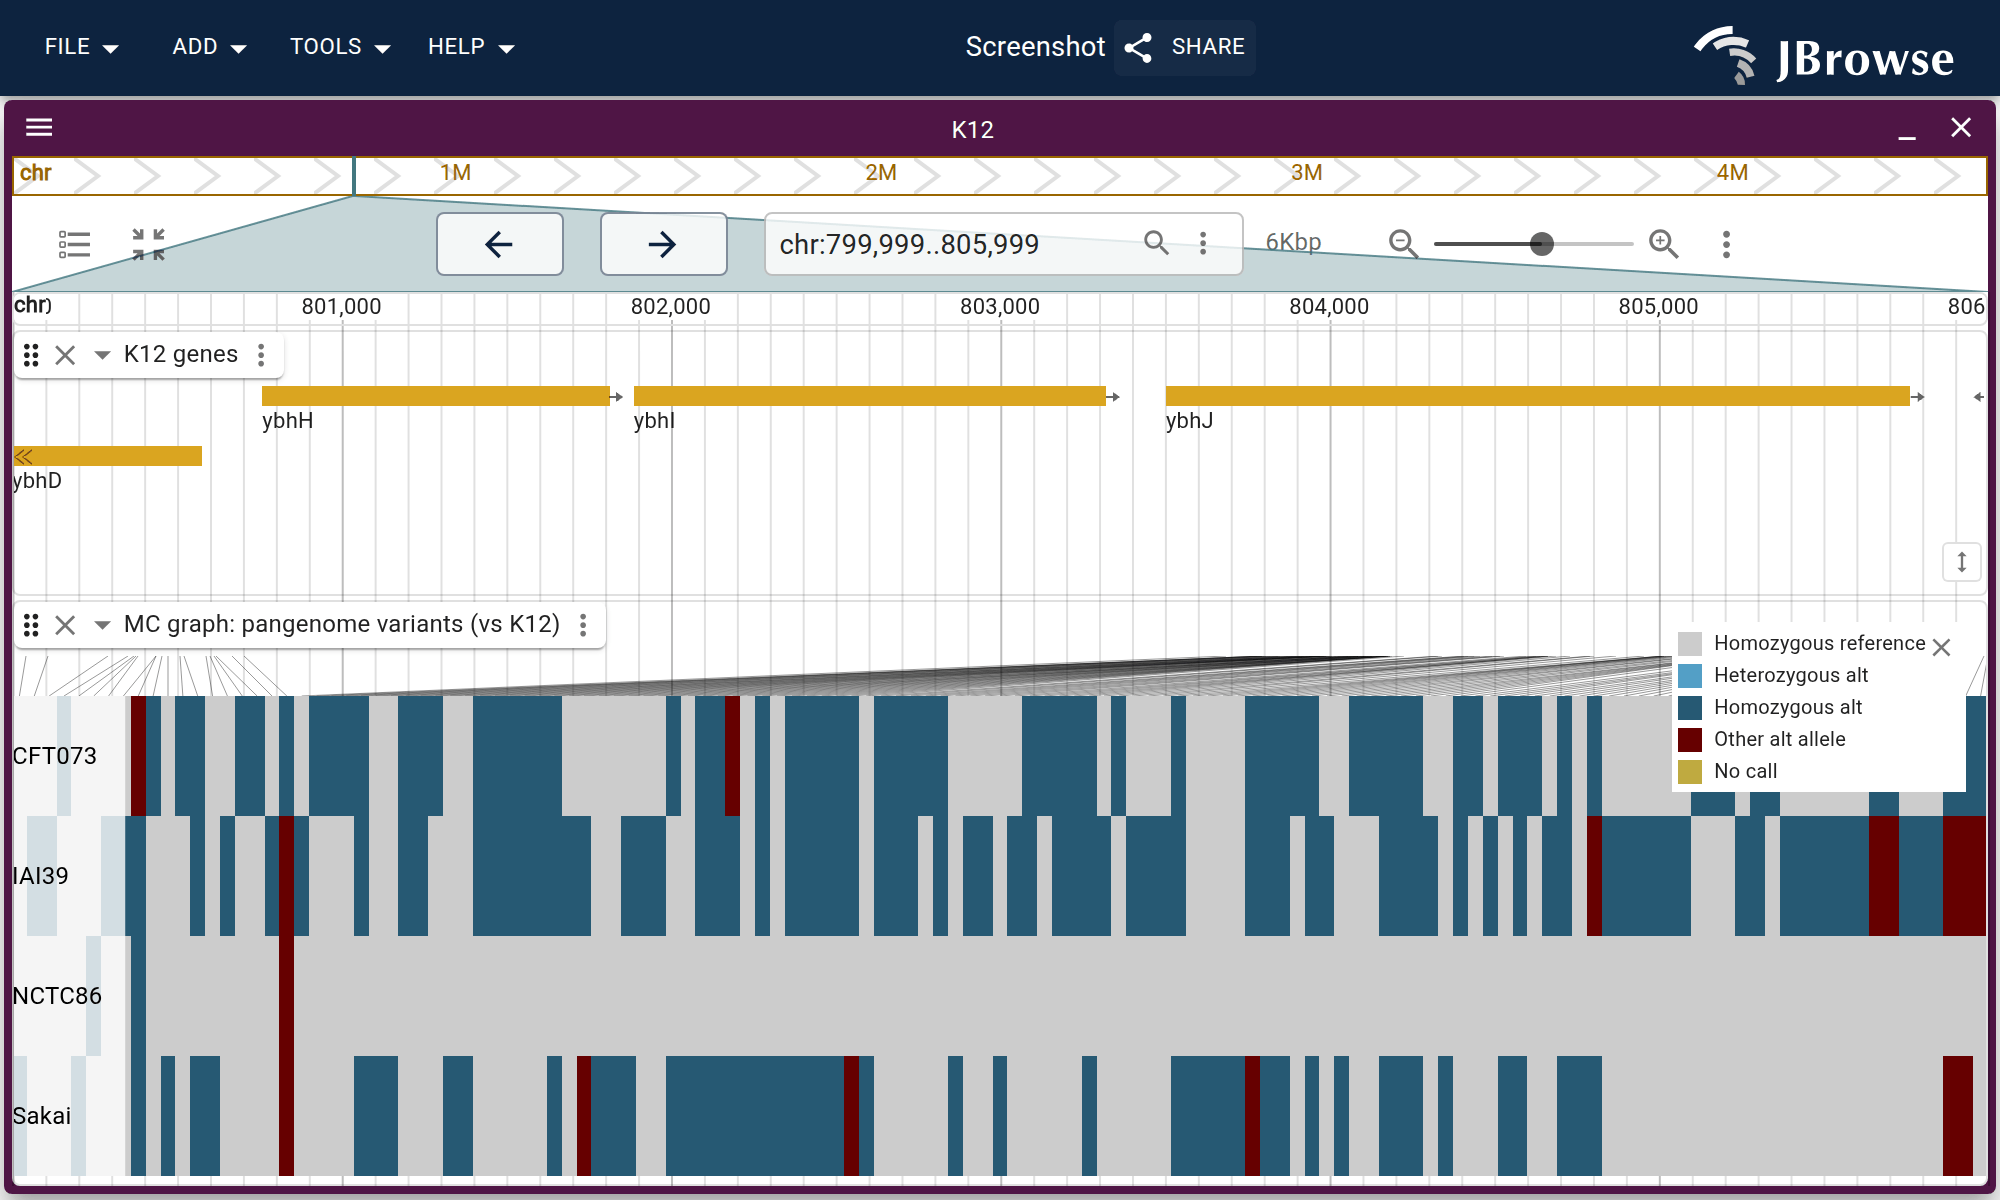
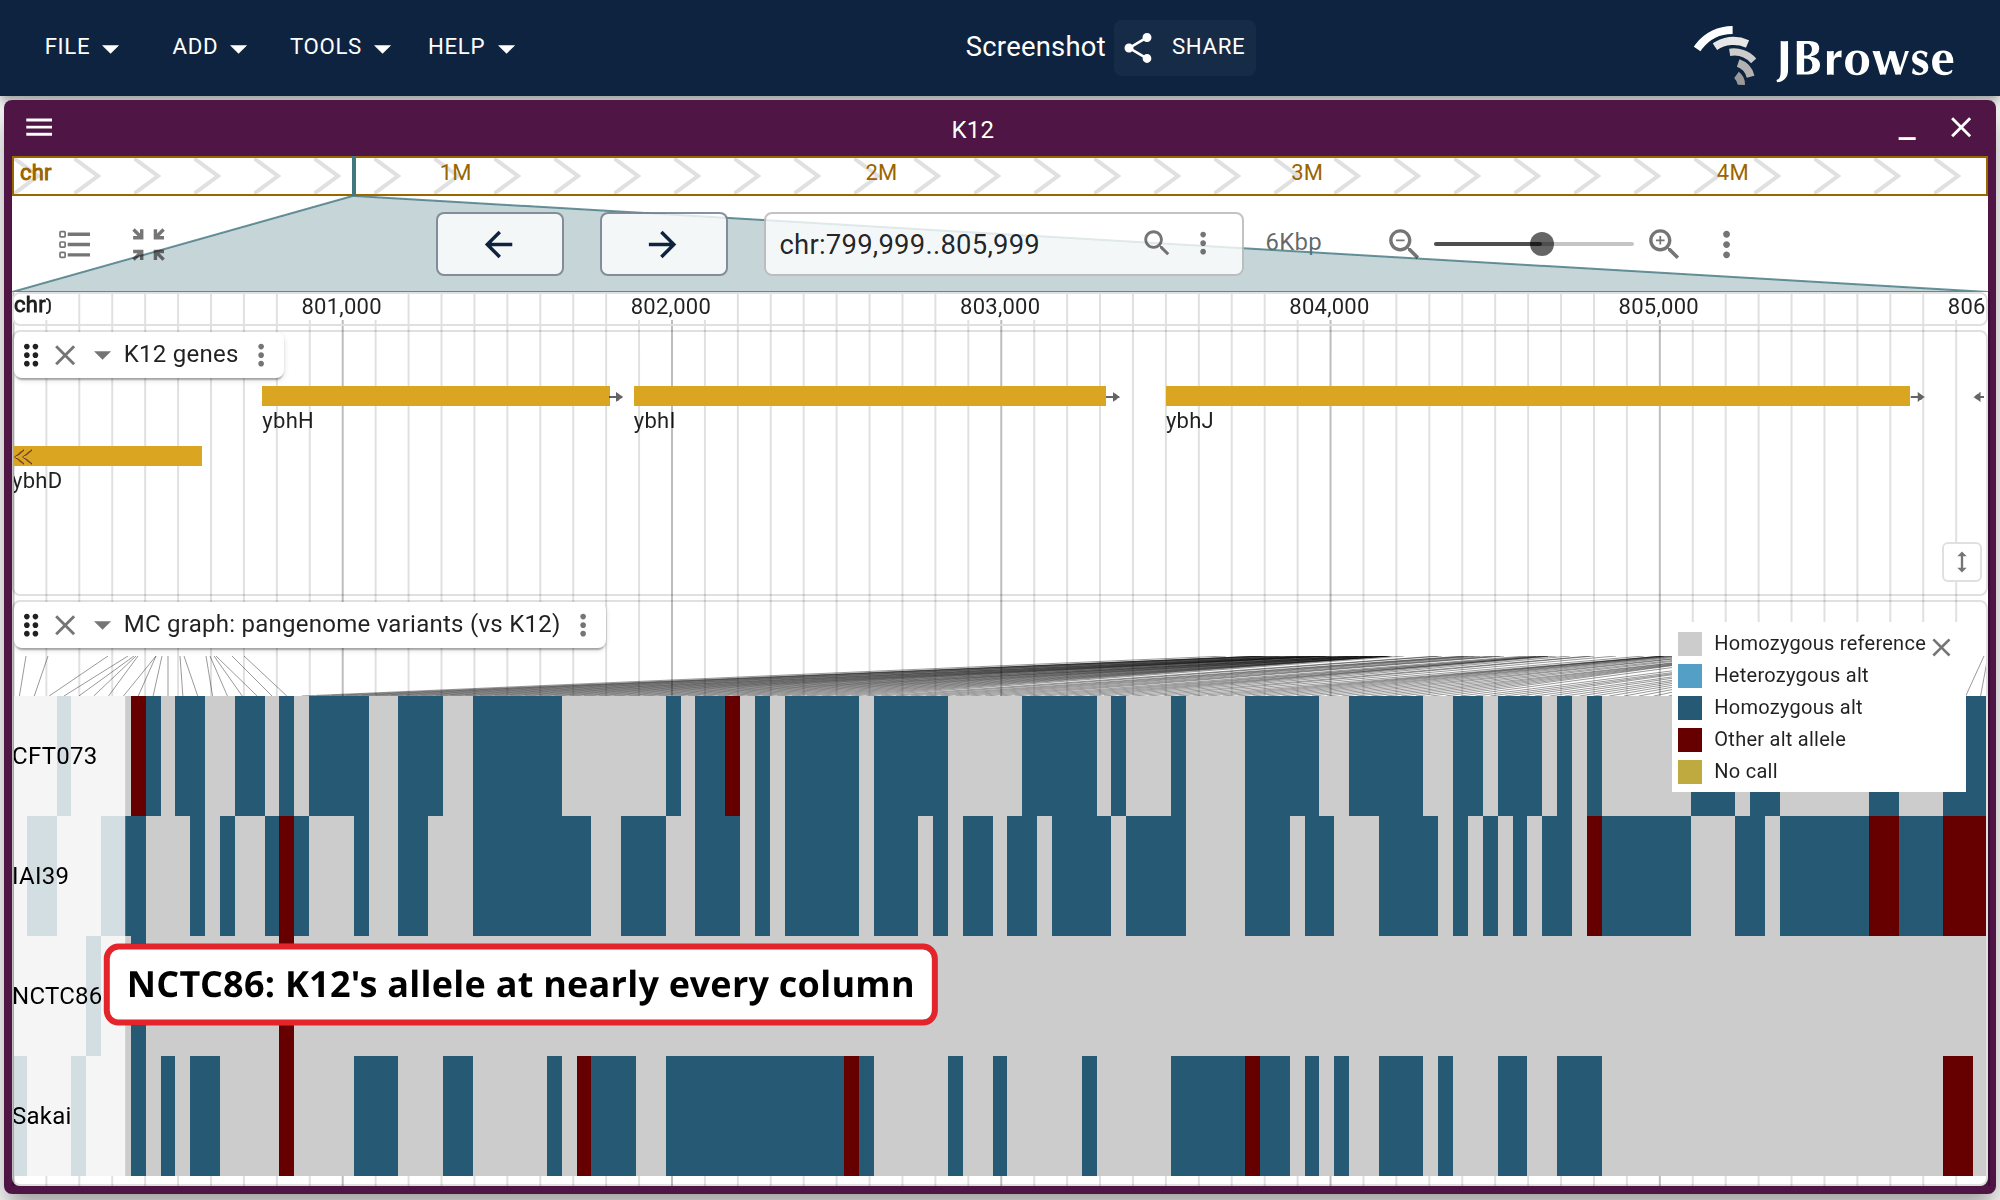
docs(pangenome): point the Cactus variants figure at the row it is about
Proposed for deletion as uninteresting. It stays: it is the only picture in the
tutorial's "Pangenome variants projection" section, that section is about a
display choice, and its window is load-bearing -- chr:800,000-806,000 is
deliberately the same 6 kb the MAF figure below draws base by base, so a reader
gets one stretch in two projections.

What was wrong is that the finding was invisible. Counted per sample over that
window on the hosted VCF: CFT073 carries an alt at 70 of the 133 records, IAI39
at 86, Sakai at 55, and NCTC86 at 3. That is the figure, and nothing on it said
so -- 133 columns of blue and grey with no row named. A label sits on NCTC86's
row now, anchored to the row's own gutter label rather than to a fraction of the
display height, because the matrix sits under a connector band whose height the
spec has no business knowing.

Claude-Session: https://claude.ai/code/session_013ibG4ptrGdTkgGS2zvJpYV

Changed region(s): [[0.031, 0.7708, 0.496, 0.8633]]

diff --git a/website/scripts/specs/pangenome_cactus.ts b/website/scripts/specs/pangenome_cactus.ts
@@ -125,6 +125,21 @@ export const pangenomeCactusSpecs: ScreenshotSpec[] = [
       { type: 'hover', from: { x: 950, y: 60 } },
       { type: 'delay', ms: 2000 },
     ],
+    // The figure's one finding, said on the figure. Without it this is 133
+    // columns of blue and grey with nothing telling a reader which row to read,
+    // which is what it was denied for. Anchored to the row's own gutter label
+    // (an SVG <text>, see shared/components/SvgSampleRowLabels.tsx) rather than
+    // to a fraction of the display height, because the matrix sits under a
+    // connector band whose height is not the spec's to know.
+    annotations: [
+      {
+        type: 'text',
+        text: "NCTC86: K12's allele at nearly every column",
+        fontSize: 18,
+        anchor: { text: 'NCTC86', alignX: 'right' },
+        dx: 12,
+      },
+    ],
   },
 
   // The two builders' depth curves in one frame, which is the comparison both

diff --git a/website/docs/tutorials/pangenome_cactus.md b/website/docs/tutorials/pangenome_cactus.md
@@ -278,7 +278,7 @@ row per sample:
 }
 ```
 
-<Figure caption="The graph's variant calls over 6 kb of K12, one column per variant and one row per strain, with the band above tying each column back to its position. NCTC86's row is grey almost throughout while the other three break up, so one strain tracks the reference across this window and the others do not." src="/img/pangenome_cactus/variants.png" />
+<Figure caption="The graph's variant calls over 6 kb of K12, one column per variant and one row per strain, with the band above tying each column back to its position. Labeled: NCTC86's row, grey almost throughout while the other three break up — one strain tracks the reference across this window and the others do not." src="/img/pangenome_cactus/variants.png" />
 
 Grey in the matrix is a call matching K12, blue an alternate allele, and dark
 red a second alternate at a multi-allelic site. Every variant gets the same
